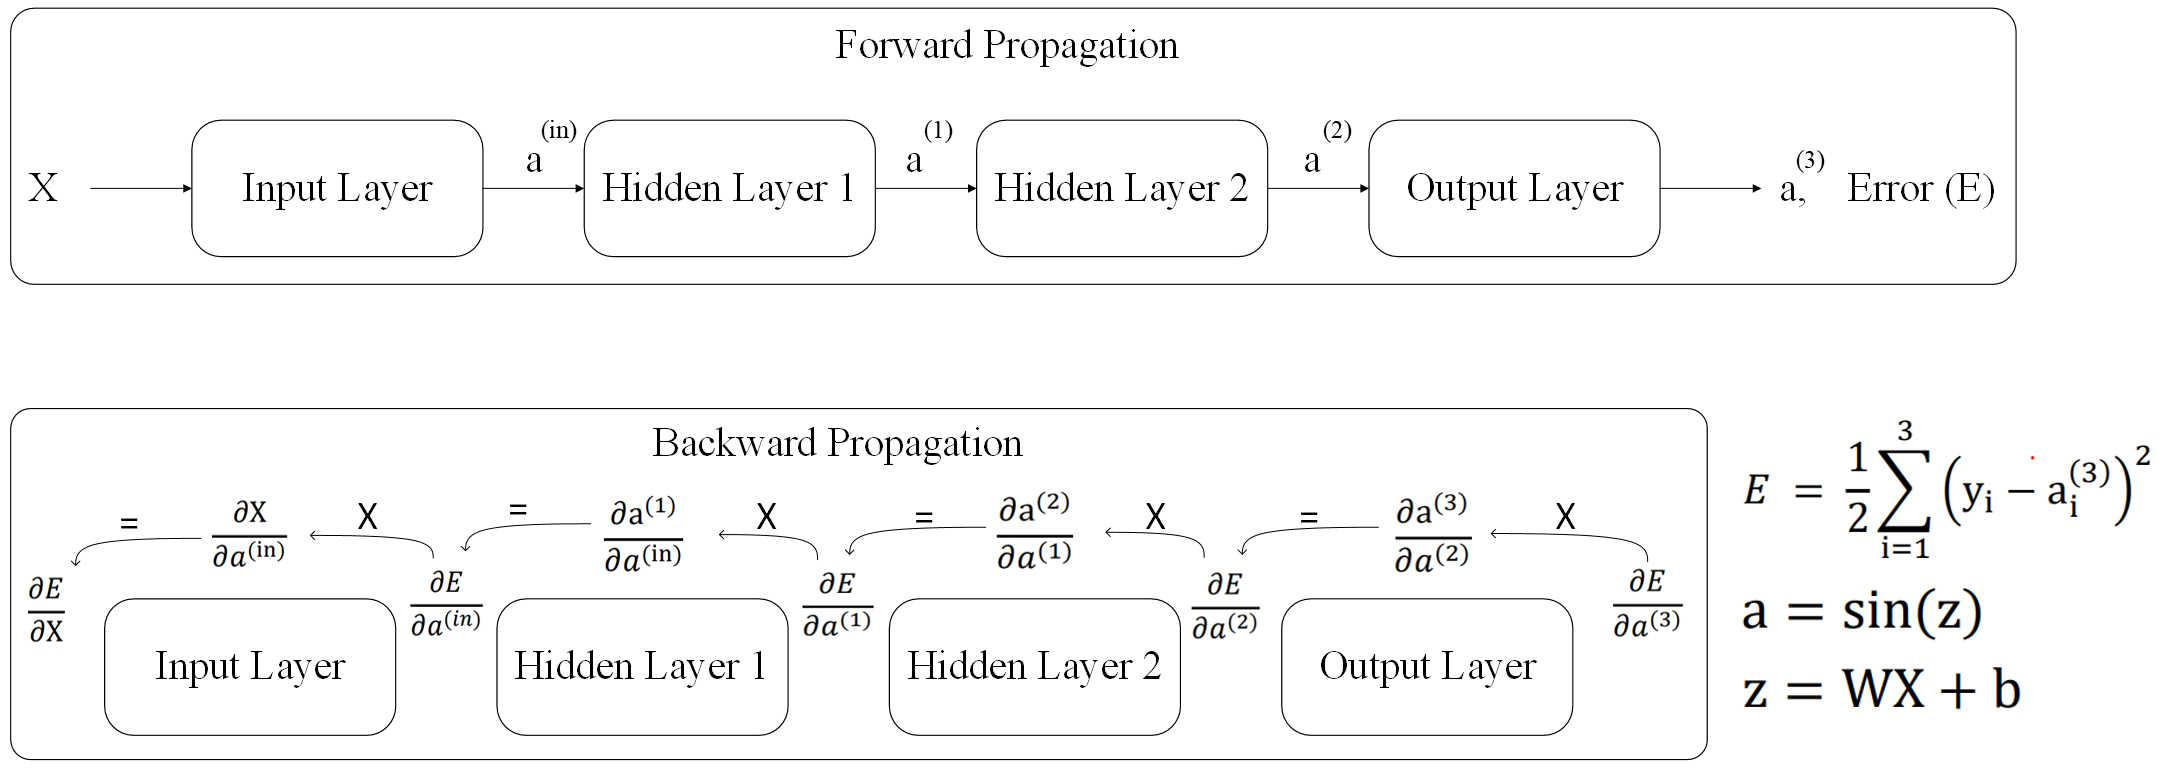
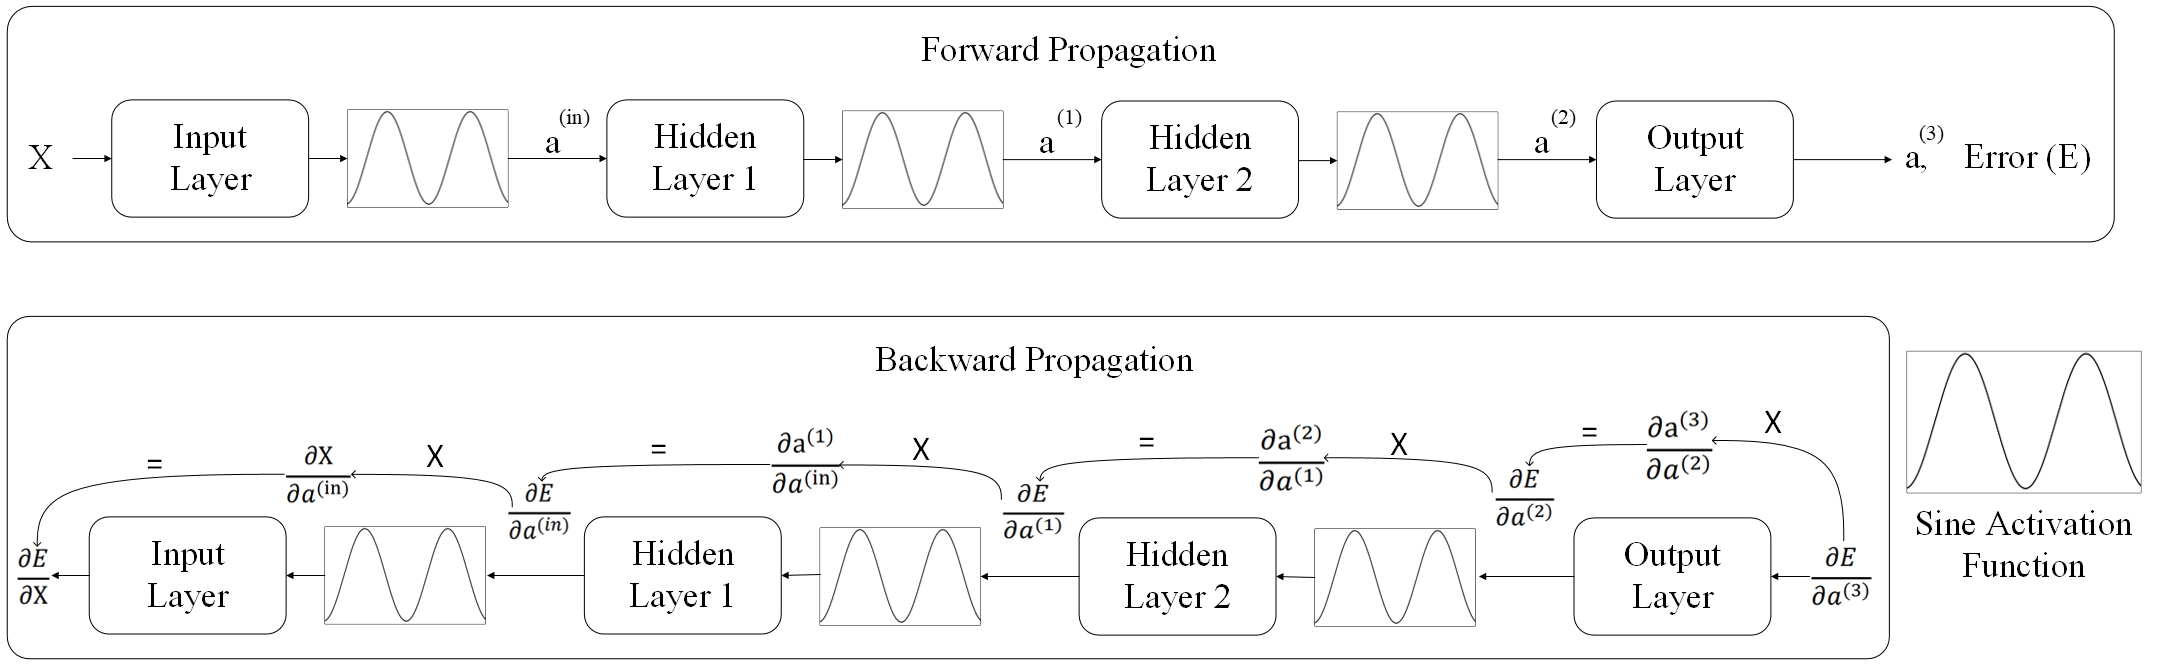
Updated concept figure for propagation and added 32 by 32 neural in appendix

diff --git a/main.tex b/main.tex
@@ -382,36 +382,62 @@ Additionally, to capture temporal dynamics in video and audio, derivatives of th
 where \( N \) is the total number of sampled points, \( \Phi \) is the SIREN model, \( \mathbf{x}_n \) are the input coordinates for the \(n\)-th data point, \( y_n \) are the actual output values at the \(n\)-th data point, \( \lambda \) is a regularization parameter, \( \nabla\Phi(\mathbf{x}_n) \) is the derivative of the \gls{siren} output with respect to the input at \( \mathbf{x}_n \), and \( \nabla y_n \) is the derivative of the true output values with respect to the input at \( \mathbf{x}_n \).
 
 
-\subsection{\MakeUppercase{Forward and Backward propagation in SIREN network}}
+\subsection{Forward and Backward Propagation in SIREN Network}
 \begin{figure}[H]
     \centering
     \includegraphics[width=\linewidth]{assets/Propagation concept figure Major Project.png}
-    \caption{Forward and Backward Propopagation in SIREN network}
+    \caption{Forward and Backward Propagation in SIREN Network}
     \label{fig:propagation-diagram}
 \end{figure}
 
-The figure provides a illustration of the forward and backward propagation processes in a siren neural network. In the forward propagation section, the input \( \mathbf{X} \) is passed through the input layer, then sequentially through hidden layers 1 and 2, and finally through the output layer to compute the activations \( \mathbf{a}^{(1)} \), \( \mathbf{a}^{(2)} \), and \( \mathbf{a}^{(3)} \). The error \( \mathbf{E} \) is calculated based on the difference between the predicted output \( \mathbf{a}^{(3)} \) and the actual output \( \mathbf{y}_i \). 
+The figure provides an illustration of the forward and backward propagation processes in a SIREN neural network. In the forward propagation section, the input \( \mathbf{X} \) is passed through the input layer, then sine activation is applied, and then sequentially through hidden layers 1 (with sine activation) and hidden layer 2 (with sine activation), and finally through the output layer. The forward propagation process can be described by the equations:
+\begin{equation}
+    \mathbf{Z}^{(l)} = \mathbf{W}^{(l)T} \mathbf{a}^{(l-1)} + \mathbf{b}^{(l)}
+\end{equation}
+\begin{equation}
+    \mathbf{a}^{(l)} = \sin(\mathbf{Z}^{(l)})
+\end{equation}
+where:
+\begin{itemize}
+    \item \( \mathbf{Z}^{(l)} \) is the linear combination of inputs at layer \( l \).
+    \item \( \mathbf{W}^{(l)} \) represents the weights of the \( l \)-th layer.
+    \item \( \mathbf{a}^{(l-1)} \) is the activation from the previous layer.
+    \item \( \mathbf{b}^{(l)} \) represents the biases of the \( l \)-th layer.
+    \item \( \mathbf{a}^{(l)} \) is the activation of the \( l \)-th layer after applying the sine function.
+\end{itemize}
+
+The error \( \mathbf{E} \) is calculated based on the difference between the predicted output \( \mathbf{a}^{(3)} \) and the actual output \( \mathbf{y}_i \). Specifically, we use the Mean Squared Error (MSE) loss function over the RGB channels:
+\begin{equation}
+    \mathbf{E} = \frac{1}{3} \sum_{i=1}^{3} (\mathbf{a}^{(3)}_i - \mathbf{y}_i)^2
+\end{equation}
+where:
+\begin{itemize}
+    \item \( \mathbf{a}^{(3)}_i \) is the predicted output.
+    \item \( \mathbf{y}_i \) is the actual output.
+\end{itemize}
+The loss equation has been written referencing \autoref{fig:32-32-neural} where the output is \gls{rgb} values of pixels, which is why the sum runs from 1 to 3.
 
 The backward propagation section shows the gradient calculation needed to update the network's weights. It starts with the error gradient \( \frac{\partial \mathbf{E}}{\partial \mathbf{a}^{(3)}} \) at the output layer and propagates backwards through hidden layers 2 and 1, and finally to the input layer. This involves computing the gradients \( \frac{\partial \mathbf{a}^{(3)}}{\partial \mathbf{a}^{(2)}} \), \( \frac{\partial \mathbf{a}^{(2)}}{\partial \mathbf{a}^{(1)}} \), and \( \frac{\partial \mathbf{a}^{(1)}}{\partial \mathbf{a}_{(in)}} \).
+
 The weights and biases are updated as per the following equations:
 \begin{equation}
-    W^{(l)} \leftarrow W^{(l)} - \eta \frac{\partial E}{\partial W^{(l)}}  
+    \mathbf{W}^{(l)} \leftarrow \mathbf{W}^{(l)} - \eta \frac{\partial \mathbf{E}}{\partial \mathbf{W}^{(l)}}  
 \end{equation}
 \begin{equation}
-    b^{(l)} \leftarrow b^{(l)} - \eta \frac{\partial E}{\partial b^{(l)}}  
+    \mathbf{b}^{(l)} \leftarrow \mathbf{b}^{(l)} - \eta \frac{\partial \mathbf{E}}{\partial \mathbf{b}^{(l)}}  
 \end{equation}
-
-
 
 Where:
 \begin{itemize}
-    \item \( W^{(l)} \) represents the weights of the \( l \)-th layer.
-    \item \( b^{(l)} \) represents the weights of the \( l \)-th layer.
+    \item \( \mathbf{W}^{(l)} \) represents the weights of the \( l \)-th layer.
+    \item \( \mathbf{b}^{(l)} \) represents the biases of the \( l \)-th layer.
     \item \( \eta \) is the learning rate.
-    \item \( \frac{\partial E}{\partial W^{(l)}} \) is the gradient of the error with respect to the weights of the \( l \)-th layer.
-    \item \( \frac{\partial E}{\partial b^{(l)}} \) is the gradient of the error with respect to the biases of the \( l \)-th layer.
+    \item \( \frac{\partial \mathbf{E}}{\partial \mathbf{W}^{(l)}} \) is the gradient of the error with respect to the weights of the \( l \)-th layer.
+    \item \( \frac{\partial \mathbf{E}}{\partial \mathbf{b}^{(l)}} \) is the gradient of the error with respect to the biases of the \( l \)-th layer.
 \end{itemize}
-The detailed forward and backward propagation equations and the gradients of error with respect to weight and bias matrices are provided in \autoref{app:forward-backward-eqn}
+
+The detailed forward and backward propagation equations and the gradients of error with respect to weight and bias matrices are provided in \autoref{app:forward-backward-eqn}.
+
 
 
 
@@ -1978,6 +2004,14 @@ In conclusion, while the evaluation metrics demonstrate the architecture's stren
 \label{app:forward-backward-eqn}
 \addcontentsline{toc}{subsection}{Appendix B: Forward and Backward Propagation}
 
+\begin{figure}[H]
+    \centering
+    \includegraphics[width=\linewidth]{assets/32_32_neural.png}
+    \caption{Neural Network Architecture for 32 by 32 image}
+    \label{fig:32-32-neural}
+\end{figure}
+
+The below Derivations have been done using \autoref{fig:32-32-neural} as reference.
 \subsubsection*{\MakeUppercase{Forward Propagation}}
 \textbf{Step 1: Input to Input Layer}
 \begin{itemize}
